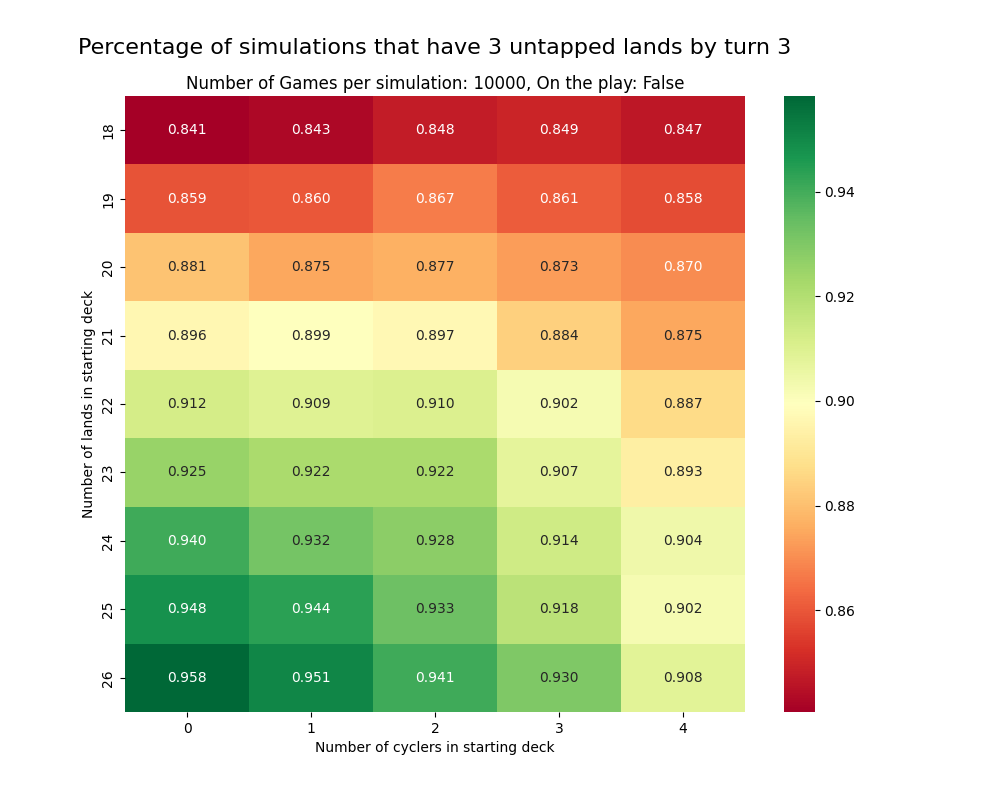
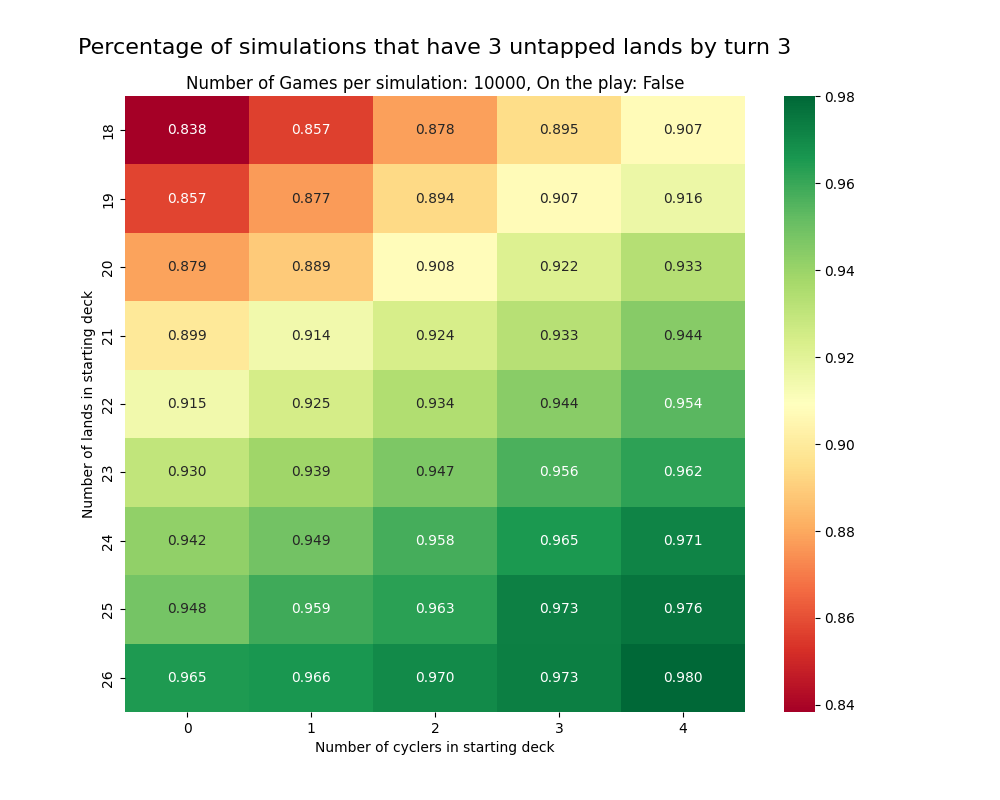
push bugfix

diff --git a/src/temur_rhinos.py b/src/temur_rhinos.py
@@ -212,19 +212,21 @@ class Simulation:
 
         # check to see if you have at least ONE land in play and ONE cycler in hand
         if self.play.count("Land") >= 1 and self.hand.count("Cycler") >= 1:
-            # "tap" the land and discard the cycler to search your deck for a land and put it into hand
-            self.discard.add(self.hand.remove("Cycler"))
-            land_card = self.deck.search_for("Land")
-            cycled_this_turn = True
-            if land_card is not None:
-                self.hand.add(land_card)
+            # only need to cycle if its not turn 3 and we already have 3 lands in play
+            if not (turn_number == 3 and self.play.count("Land") == 3):
+                # "tap" the land and discard the cycler to search your deck for a land and put it into hand
+                self.discard.add(self.hand.remove("Cycler"))
+                land_card = self.deck.search_for("Land")
+                cycled_this_turn = True
+                if land_card is not None:
+                    self.hand.add(land_card)
 
-            # if you haven't played a land this turn, play the land you just searched for with the cycler
-            if not land_for_turn and self.hand.count("Land") > 0:
-                self.play.add(self.hand.remove("Land"))
-                land_for_turn = True
+                # if you haven't played a land this turn, play the land you just searched for with the cycler
+                if not land_for_turn and self.hand.count("Land") > 0:
+                    self.play.add(self.hand.remove("Land"))
+                    land_for_turn = True
 
-        # if we are over 7 cards in hand, discard a non-land card:
+        # at the end of the turn, if we are over 7 cards in hand, discard a non-land card:
         if len(self.hand.cards) > 7:
             if self.hand.count("Non-Land") > 0:
                 self.discard.add(self.hand.remove("Non-Land"))
